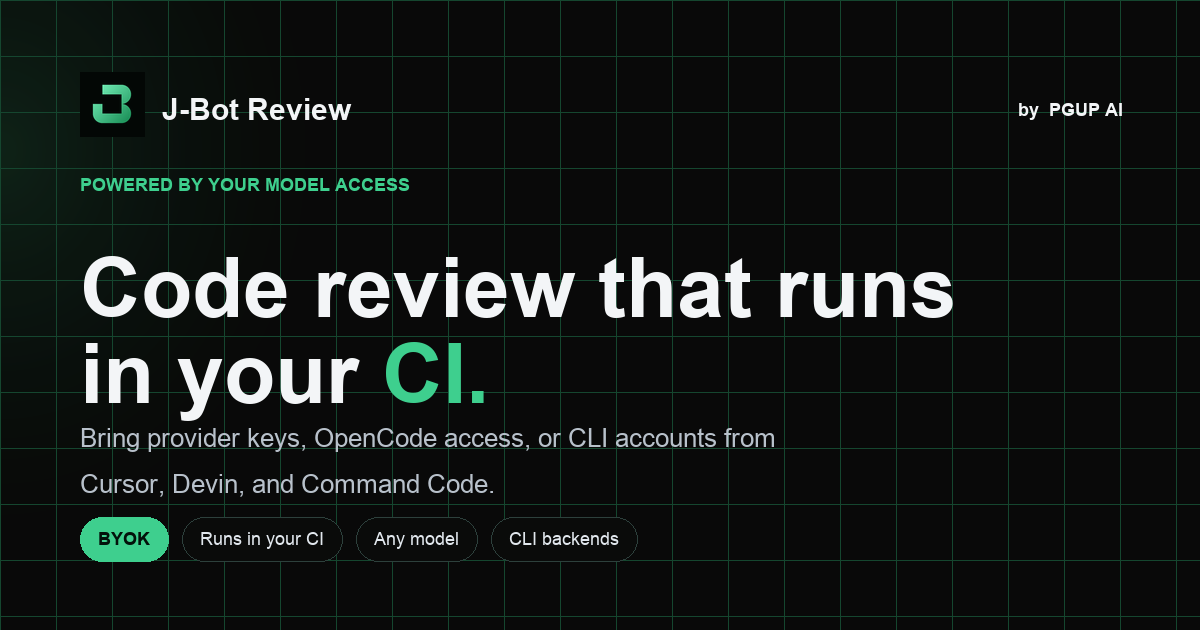
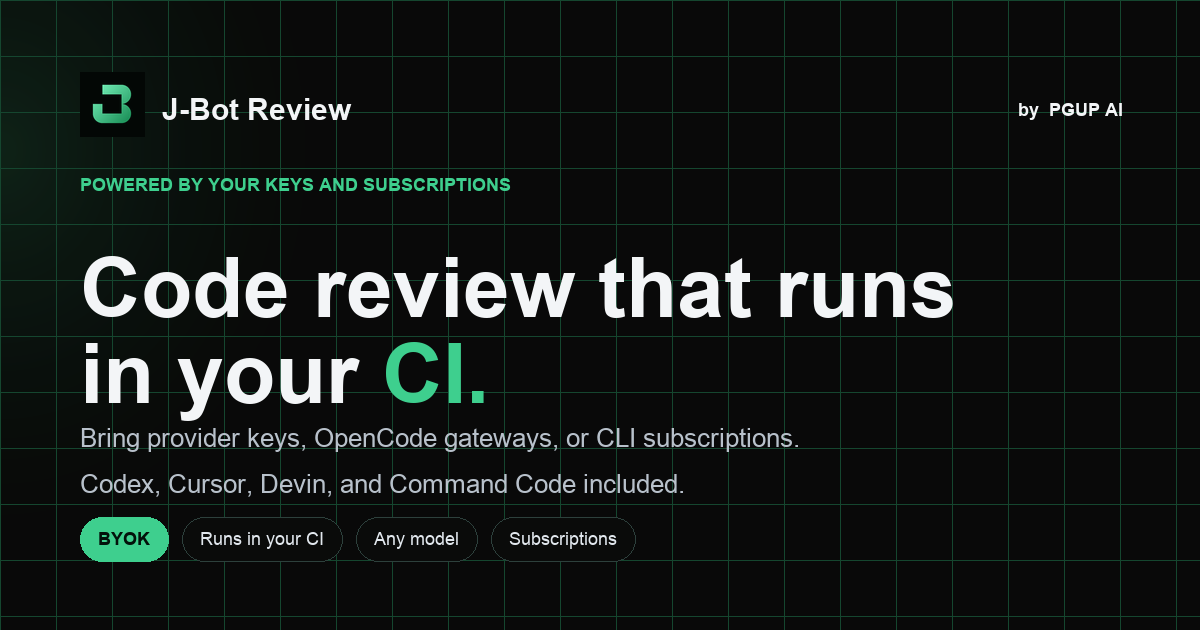
Clarify subscription positioning

diff --git a/index.html b/index.html
@@ -4,7 +4,7 @@
 <meta charset="utf-8" />
 <meta name="viewport" content="width=device-width, initial-scale=1" />
 <title>J-Bot Review: AI code review that runs in your CI</title>
-<meta name="description" content="An agentic PR reviewer that runs inside your own GitHub Actions, using provider keys, OpenCode gateways, or CLI access from Cursor, Devin, and Command Code." />
+<meta name="description" content="An agentic PR reviewer that runs inside your own GitHub Actions, using provider keys, OpenCode gateways, or CLI subscriptions including Codex, Cursor, Devin, and Command Code." />
 <meta name="color-scheme" content="dark" />
 <meta name="theme-color" content="#0a0b0a" />
 
@@ -20,7 +20,7 @@
 <meta property="og:url" content="https://www.pgupai.com/" />
 <meta property="og:site_name" content="J-Bot Review" />
 <meta property="og:title" content="J-Bot Review: AI code review that runs in your CI" />
-<meta property="og:description" content="Agentic PR review inside GitHub Actions. Bring provider keys, OpenCode access, or CLI accounts from Cursor, Devin, and Command Code." />
+<meta property="og:description" content="Agentic PR review inside GitHub Actions. Bring provider keys, OpenCode gateways, or CLI subscriptions including Codex, Cursor, Devin, and Command Code." />
 <meta property="og:image" content="https://www.pgupai.com/assets/og.png" />
 <meta property="og:image:width" content="1200" />
 <meta property="og:image:height" content="630" />
@@ -28,7 +28,7 @@
 <!-- Twitter -->
 <meta name="twitter:card" content="summary_large_image" />
 <meta name="twitter:title" content="J-Bot Review: AI code review that runs in your CI" />
-<meta name="twitter:description" content="Agentic PR review inside GitHub Actions. Bring provider keys, OpenCode access, or CLI accounts from Cursor, Devin, and Command Code." />
+<meta name="twitter:description" content="Agentic PR review inside GitHub Actions. Bring provider keys, OpenCode gateways, or CLI subscriptions including Codex, Cursor, Devin, and Command Code." />
 <meta name="twitter:image" content="https://www.pgupai.com/assets/og.png" />
 
 <style>
@@ -506,9 +506,9 @@
 <section class="hero">
   <div class="wrap hero-grid">
     <div class="hero-copy">
-      <span class="brand-strip">Use your <b>own model access</b></span>
+      <span class="brand-strip">Reuse your <b>existing model subscriptions</b></span>
       <h1>Code review that runs in your <span class="grad">CI</span>.</h1>
-      <p class="lede">An agentic PR reviewer that runs in your own GitHub Actions. Use OpenCode, provider keys, or existing Cursor, Devin, and Command Code access.</p>
+      <p class="lede">An agentic PR reviewer that runs in your own GitHub Actions. Use provider keys, OpenCode gateways, or existing Codex, Cursor, Devin, and Command Code subscriptions.</p>
       <div class="hero-cta">
         <a class="btn btn-primary" href="#setup">
           <svg viewBox="0 0 24 24" fill="none" stroke="currentColor" stroke-width="2" stroke-linecap="round" stroke-linejoin="round" aria-hidden="true"><path d="M5 12h14M12 5l7 7-7 7"/></svg>
@@ -544,7 +544,7 @@
         <span class="k">with</span>:
           <span class="k">opencode-api-key</span>: <span class="s">${{ secrets.OPENCODE_API_KEY }}</span>
           <span class="k">github-token</span>: <span class="s">${{ secrets.GITHUB_TOKEN }}</span>
-<span class="c"># your runner. your model access. your review.</span></pre>
+<span class="c"># your runner. your provider key or subscription. your review.</span></pre>
       </div>
     </div>
   </div>
@@ -553,11 +553,12 @@
 <!-- ====================== PROVIDER / MODEL STRIP ====================== -->
 <section class="providers" aria-label="Supported providers">
   <div class="wrap">
-    <p class="label">Bring provider keys, OpenCode access, or CLI subscriptions</p>
+    <p class="label">Bring provider keys, OpenCode gateways, or CLI subscriptions</p>
     <div class="chips">
-      <span class="chip free"><svg class="chip-ic" viewBox="0.7 1.16 22.6 21.65" aria-hidden="true"><path d="M22 24H2V0h20zM17 4.8H7v14.4h10z"/></svg>OpenCode<i class="ftag">default path</i></span>
+      <span class="chip free"><svg class="chip-ic" viewBox="0.7 1.16 22.6 21.65" aria-hidden="true"><path d="M22 24H2V0h20zM17 4.8H7v14.4h10z"/></svg>OpenCode<i class="ftag">free models</i></span>
       <span class="chip"><svg class="chip-ic" viewBox="-1.06 2.9 26.12 17.78" aria-hidden="true"><path d="m4.7144 15.9555 4.7174-2.6471.079-.2307-.079-.1275h-.2307l-.7893-.0486-2.6956-.0729-2.3375-.0971-2.2646-.1214-.5707-.1215-.5343-.7042.0546-.3522.4797-.3218.686.0608 1.5179.1032 2.2767.1578 1.6514.0972 2.4468.255h.3886l.0546-.1579-.1336-.0971-.1032-.0972L6.973 9.8356l-2.55-1.6879-1.3356-.9714-.7225-.4918-.3643-.4614-.1578-1.0078.6557-.7225.8803.0607.2246.0607.8925.686 1.9064 1.4754 2.4893 1.8336.3643.3035.1457-.1032.0182-.0728-.164-.2733-1.3539-2.4467-1.445-2.4893-.6435-1.032-.17-.6194c-.0607-.255-.1032-.4674-.1032-.7285L6.287.1335 6.6997 0l.9957.1336.419.3642.6192 1.4147 1.0018 2.2282 1.5543 3.0296.4553.8985.2429.8318.091.255h.1579v-.1457l.1275-1.706.2368-2.0947.2307-2.6957.0789-.7589.3764-.9107.7468-.4918.5828.2793.4797.686-.0668.4433-.2853 1.8517-.5586 2.9021-.3643 1.9429h.2125l.2429-.2429.9835-1.3053 1.6514-2.0643.7286-.8196.85-.9046.5464-.4311h1.0321l.759 1.1293-.34 1.1657-1.0625 1.3478-.8804 1.1414-1.2628 1.7-.7893 1.36.0729.1093.1882-.0183 2.8535-.607 1.5421-.2794 1.8396-.3157.8318.3886.091.3946-.3278.8075-1.967.4857-2.3072.4614-3.4364.8136-.0425.0304.0486.0607 1.5482.1457.6618.0364h1.621l3.0175.2247.7892.522.4736.6376-.079.4857-1.2142.6193-1.6393-.3886-3.825-.9107-1.3113-.3279h-.1822v.1093l1.0929 1.0686 2.0035 1.8092 2.5075 2.3314.1275.5768-.3218.4554-.34-.0486-2.2039-1.6575-.85-.7468-1.9246-1.621h-.1275v.17l.4432.6496 2.3436 3.5214.1214 1.0807-.17.3521-.6071.2125-.6679-.1214-1.3721-1.9246L14.38 17.959l-1.1414-1.9428-.1397.079-.674 7.2552-.3156.3703-.7286.2793-.6071-.4614-.3218-.7468.3218-1.4753.3886-1.9246.3157-1.53.2853-1.9004.17-.6314-.0121-.0425-.1397.0182-1.4328 1.9672-2.1796 2.9446-1.7243 1.8456-.4128.164-.7164-.3704.0667-.6618.4008-.5889 2.386-3.0357 1.4389-1.882.929-1.0868-.0062-.1579h-.0546l-6.3385 4.1164-1.1293.1457-.4857-.4554.0608-.7467.2307-.2429 1.9064-1.3114Z"/></svg>Claude</span>
       <span class="chip"><svg class="chip-ic" viewBox="-0.98 2.41 25.97 19.14" aria-hidden="true"><path d="M22.2819 9.8211a5.9847 5.9847 0 0 0-.5157-4.9108 6.0462 6.0462 0 0 0-6.5098-2.9A6.0651 6.0651 0 0 0 4.9807 4.1818a5.9847 5.9847 0 0 0-3.9977 2.9 6.0462 6.0462 0 0 0 .7427 7.0966 5.98 5.98 0 0 0 .511 4.9107 6.051 6.051 0 0 0 6.5146 2.9001A5.9847 5.9847 0 0 0 13.2599 24a6.0557 6.0557 0 0 0 5.7718-4.2058 5.9894 5.9894 0 0 0 3.9977-2.9001 6.0557 6.0557 0 0 0-.7475-7.0729zm-9.022 12.6081a4.4755 4.4755 0 0 1-2.8764-1.0408l.1419-.0804 4.7783-2.7582a.7948.7948 0 0 0 .3927-.6813v-6.7369l2.02 1.1686a.071.071 0 0 1 .038.052v5.5826a4.504 4.504 0 0 1-4.4945 4.4944zm-9.6607-4.1254a4.4708 4.4708 0 0 1-.5346-3.0137l.142.0852 4.783 2.7582a.7712.7712 0 0 0 .7806 0l5.8428-3.3685v2.3324a.0804.0804 0 0 1-.0332.0615L9.74 19.9502a4.4992 4.4992 0 0 1-6.1408-1.6464zM2.3408 7.8956a4.485 4.485 0 0 1 2.3655-1.9728V11.6a.7664.7664 0 0 0 .3879.6765l5.8144 3.3543-2.0201 1.1685a.0757.0757 0 0 1-.071 0l-4.8303-2.7865A4.504 4.504 0 0 1 2.3408 7.872zm16.5963 3.8558L13.1038 8.364 15.1192 7.2a.0757.0757 0 0 1 .071 0l4.8303 2.7913a4.4944 4.4944 0 0 1-.6765 8.1042v-5.6772a.79.79 0 0 0-.407-.667zm2.0107-3.0231l-.142-.0852-4.7735-2.7818a.7759.7759 0 0 0-.7854 0L9.409 9.2297V6.8974a.0662.0662 0 0 1 .0284-.0615l4.8303-2.7866a4.4992 4.4992 0 0 1 6.6802 4.66zM8.3065 12.863l-2.02-1.1638a.0804.0804 0 0 1-.038-.0567V6.0742a4.4992 4.4992 0 0 1 7.3757-3.4537l-.142.0805L8.704 5.459a.7948.7948 0 0 0-.3927.6813zm1.0976-2.3654l2.602-1.4998 2.6069 1.4998v2.9994l-2.5974 1.4997-2.6067-1.4997Z"/></svg>OpenAI</span>
+      <span class="chip"><svg class="chip-ic" viewBox="-0.98 2.41 25.97 19.14" aria-hidden="true"><path d="M22.2819 9.8211a5.9847 5.9847 0 0 0-.5157-4.9108 6.0462 6.0462 0 0 0-6.5098-2.9A6.0651 6.0651 0 0 0 4.9807 4.1818a5.9847 5.9847 0 0 0-3.9977 2.9 6.0462 6.0462 0 0 0 .7427 7.0966 5.98 5.98 0 0 0 .511 4.9107 6.051 6.051 0 0 0 6.5146 2.9001A5.9847 5.9847 0 0 0 13.2599 24a6.0557 6.0557 0 0 0 5.7718-4.2058 5.9894 5.9894 0 0 0 3.9977-2.9001 6.0557 6.0557 0 0 0-.7475-7.0729zm-9.022 12.6081a4.4755 4.4755 0 0 1-2.8764-1.0408l.1419-.0804 4.7783-2.7582a.7948.7948 0 0 0 .3927-.6813v-6.7369l2.02 1.1686a.071.071 0 0 1 .038.052v5.5826a4.504 4.504 0 0 1-4.4945 4.4944zm-9.6607-4.1254a4.4708 4.4708 0 0 1-.5346-3.0137l.142.0852 4.783 2.7582a.7712.7712 0 0 0 .7806 0l5.8428-3.3685v2.3324a.0804.0804 0 0 1-.0332.0615L9.74 19.9502a4.4992 4.4992 0 0 1-6.1408-1.6464zM2.3408 7.8956a4.485 4.485 0 0 1 2.3655-1.9728V11.6a.7664.7664 0 0 0 .3879.6765l5.8144 3.3543-2.0201 1.1685a.0757.0757 0 0 1-.071 0l-4.8303-2.7865A4.504 4.504 0 0 1 2.3408 7.872zm16.5963 3.8558L13.1038 8.364 15.1192 7.2a.0757.0757 0 0 1 .071 0l4.8303 2.7913a4.4944 4.4944 0 0 1-.6765 8.1042v-5.6772a.79.79 0 0 0-.407-.667zm2.0107-3.0231l-.142-.0852-4.7735-2.7818a.7759.7759 0 0 0-.7854 0L9.409 9.2297V6.8974a.0662.0662 0 0 1 .0284-.0615l4.8303-2.7866a4.4992 4.4992 0 0 1 6.6802 4.66zM8.3065 12.863l-2.02-1.1638a.0804.0804 0 0 1-.038-.0567V6.0742a4.4992 4.4992 0 0 1 7.3757-3.4537l-.142.0805L8.704 5.459a.7948.7948 0 0 0-.3927.6813zm1.0976-2.3654l2.602-1.4998 2.6069 1.4998v2.9994l-2.5974 1.4997-2.6067-1.4997Z"/></svg>Codex</span>
       <span class="chip"><svg class="chip-ic" viewBox="-1.07 3.09 26.13 17.78" aria-hidden="true"><path d="M11.04 19.32Q12 21.51 12 24q0-2.49.93-4.68.96-2.19 2.58-3.81t3.81-2.55Q21.51 12 24 12q-2.49 0-4.68-.93a12.3 12.3 0 0 1-3.81-2.58 12.3 12.3 0 0 1-2.58-3.81Q12 2.49 12 0q0 2.49-.96 4.68-.93 2.19-2.55 3.81a12.3 12.3 0 0 1-3.81 2.58Q2.49 12 0 12q2.49 0 4.68.96 2.19.93 3.81 2.55t2.55 3.81"/></svg>Gemini</span>
       <span class="chip"><svg class="chip-ic" viewBox="-0.81 4.94 25.63 13.55" aria-hidden="true"><path d="M23.748 4.651c-.254-.124-.364.113-.512.233-.051.04-.094.09-.137.137-.372.397-.806.657-1.373.626-.829-.046-1.537.214-2.163.848-.133-.782-.575-1.248-1.247-1.548-.352-.155-.708-.311-.955-.65-.172-.24-.219-.509-.305-.774-.055-.16-.11-.323-.293-.35-.2-.031-.278.136-.356.276-.313.572-.434 1.202-.422 1.84.027 1.436.633 2.58 1.838 3.393.137.094.172.187.129.323-.082.28-.18.553-.266.833-.055.179-.137.218-.328.14a5.5 5.5 0 0 1-1.737-1.179c-.857-.828-1.631-1.743-2.597-2.46a12 12 0 0 0-.689-.47c-.985-.957.13-1.743.387-1.836.27-.098.094-.433-.778-.428-.872.003-1.67.295-2.687.685a3 3 0 0 1-.465.136 9.6 9.6 0 0 0-2.883-.101c-1.885.21-3.39 1.1-4.497 2.622C.082 8.776-.231 10.854.152 13.02c.403 2.284 1.568 4.175 3.36 5.653 1.857 1.533 3.997 2.284 6.438 2.14 1.482-.085 3.132-.284 4.994-1.86.47.234.962.328 1.78.398.629.058 1.235-.031 1.705-.129.735-.155.684-.836.418-.961-2.155-1.004-1.682-.595-2.112-.926 1.095-1.295 2.768-3.598 3.284-6.733.05-.346.115-.834.108-1.114-.004-.171.035-.238.23-.257a4.2 4.2 0 0 0 1.545-.475c1.397-.763 1.96-2.016 2.093-3.517.02-.23-.004-.467-.247-.588M11.58 18.168c-2.088-1.642-3.101-2.183-3.52-2.16-.39.024-.32.472-.234.763.09.288.207.487.371.74.114.167.192.416-.113.603-.673.416-1.842-.14-1.897-.168-1.361-.801-2.5-1.86-3.301-3.306-.775-1.393-1.225-2.888-1.299-4.482-.02-.385.094-.522.477-.592a4.7 4.7 0 0 1 1.53-.038c2.131.311 3.946 1.264 5.467 2.774.868.86 1.525 1.887 2.202 2.89.72 1.066 1.494 2.082 2.48 2.915.348.291.626.513.892.677-.802.09-2.14.109-3.055-.615zm1.001-6.44a.306.306 0 0 1 .415-.287.3.3 0 0 1 .113.074.3.3 0 0 1 .086.214c0 .17-.136.307-.308.307a.303.303 0 0 1-.306-.307m3.11 1.596c-.2.081-.4.151-.591.16a1.25 1.25 0 0 1-.798-.254c-.274-.23-.47-.358-.551-.758a1.7 1.7 0 0 1 .015-.588c.07-.327-.007-.537-.238-.727-.188-.156-.426-.199-.689-.199a.6.6 0 0 1-.254-.078.253.253 0 0 1-.114-.358 1 1 0 0 1 .192-.21c.356-.202.767-.136 1.146.016.352.144.618.408 1.001.782.392.451.462.576.685.915.176.264.336.536.446.848.066.194-.02.353-.25.45"/></svg>DeepSeek</span>
       <span class="chip"><svg class="chip-ic" viewBox="-1.06 3.12 26.13 17.74" aria-hidden="true"><path d="M23.919 14.545 20.817 9.17l1.47-2.544a.56.56 0 0 0 0-.566l-1.633-2.83a.57.57 0 0 0-.49-.283h-6.207L12.487.402a.57.57 0 0 0-.49-.284H8.732a.56.56 0 0 0-.49.284L5.139 5.775h-2.94a.56.56 0 0 0-.49.284L.077 8.887a.56.56 0 0 0 0 .567L3.18 14.83l-1.47 2.545a.56.56 0 0 0 0 .566l1.634 2.83a.57.57 0 0 0 .49.283h6.205l1.47 2.545a.57.57 0 0 0 .49.284h3.266a.57.57 0 0 0 .49-.284l3.104-5.375h2.94a.57.57 0 0 0 .49-.283l1.634-2.828a.55.55 0 0 0-.004-.568M8.733.686l1.634 2.828-1.634 2.828H21.8L20.164 9.17H7.425L5.63 6.06Zm1.306 19.801-6.205-.002 1.634-2.83h3.265L2.201 6.344h3.267q3.182 5.517 6.367 11.032zm10.124-5.66L18.53 12l-6.532 11.315-1.634-2.83c2.129-3.673 4.25-7.351 6.373-11.028h3.592l3.102 5.374z"/></svg>Qwen</span>
@@ -591,7 +592,7 @@
       <div class="step reveal">
         <div class="num">01</div>
         <h3>Add the workflow</h3>
-        <p>Commit one YAML file to <code>.github/workflows</code> and add a provider key or CLI access token as a repo secret.</p>
+        <p>Commit one YAML file to <code>.github/workflows</code> and add a provider key or CLI credential as a repo secret.</p>
         <div class="mini"><span class="k">secrets</span>:<br>&nbsp;&nbsp;<span class="s">OPENCODE_API_KEY</span></div>
       </div>
       <div class="step reveal">
@@ -622,15 +623,15 @@
       <!-- BYOK -->
       <div class="cell c-byok reveal">
         <div class="ic" aria-hidden="true"><svg viewBox="0 0 24 24" fill="none" stroke="currentColor" stroke-width="2" stroke-linecap="round" stroke-linejoin="round"><path d="M21 2l-2 2m-7.61 7.61a5.5 5.5 0 1 1-7.78 7.78 5.5 5.5 0 0 1 7.78-7.78zm0 0L15.5 7.5m0 0l3 3L22 7l-3-3"/></svg></div>
-        <h3>Your access, your runner</h3>
-        <p>You bring the provider key or CLI token as a repo secret. The review runs in your Actions runner, and the diff goes only to the model you chose, on your own account.</p>
+        <h3>Your key or subscription, your runner</h3>
+        <p>You bring the provider key or CLI credential as a repo secret. The review runs in your Actions runner, and the diff goes only to the model you chose, on your own account.</p>
       </div>
 
       <!-- FREE -->
       <div class="cell c-free reveal">
         <div>
           <h3>Reviews that can cost nothing</h3>
-          <p>Pick a free model where your provider offers one, bring a provider key, or run through existing Cursor, Devin, or Command Code access. J-Bot adds no per-review bill.</p>
+          <p>Pick a free model where your provider offers one, bring a provider key, or reuse an existing Codex, Cursor, Devin, or Command Code subscription. J-Bot adds no per-review bill.</p>
         </div>
         <div class="freebig">$0<small>with free models or existing CLI seats</small></div>
       </div>
@@ -646,7 +647,7 @@
       <div class="cell c-flex reveal">
         <div class="ic" aria-hidden="true"><svg viewBox="0 0 24 24" fill="none" stroke="currentColor" stroke-width="2" stroke-linecap="round" stroke-linejoin="round"><path d="M12 3v18M3 12h18M5.6 5.6l12.8 12.8M18.4 5.6L5.6 18.4"/></svg></div>
         <h3>Any model you want</h3>
-        <p>Provider keys, OpenCode gateways, and CLI backends including Cursor, Devin, and Command Code. Switch with one repo variable, no YAML edits.</p>
+        <p>Provider keys, OpenCode gateways, and CLI backends including Codex, Cursor, Devin, and Command Code. Switch with one repo variable, no YAML edits.</p>
       </div>
 
       <!-- GUIDELINES -->
@@ -704,7 +705,7 @@
       <div class="col ours reveal">
         <div class="col-head"><h3>J-Bot Review</h3><span class="tag">owned</span></div>
         <ul>
-          <li><svg class="m" viewBox="0 0 24 24" fill="none" stroke="currentColor" stroke-width="2.4" stroke-linecap="round" stroke-linejoin="round"><path d="M20 6 9 17l-5-5"/></svg>Runs in your runner. The diff goes only to the model you pick, on your access.</li>
+          <li><svg class="m" viewBox="0 0 24 24" fill="none" stroke="currentColor" stroke-width="2.4" stroke-linecap="round" stroke-linejoin="round"><path d="M20 6 9 17l-5-5"/></svg>Runs in your runner. The diff goes only to the model you pick, on your provider key or subscription.</li>
           <li><svg class="m" viewBox="0 0 24 24" fill="none" stroke="currentColor" stroke-width="2.4" stroke-linecap="round" stroke-linejoin="round"><path d="M20 6 9 17l-5-5"/></svg>Can be free when your selected provider offers free models, or reuse a CLI subscription you already pay for.</li>
           <li><svg class="m" viewBox="0 0 24 24" fill="none" stroke="currentColor" stroke-width="2.4" stroke-linecap="round" stroke-linejoin="round"><path d="M20 6 9 17l-5-5"/></svg>Any provider, model, or supported CLI. Swap with one repo variable.</li>
           <li><svg class="m" viewBox="0 0 24 24" fill="none" stroke="currentColor" stroke-width="2.4" stroke-linecap="round" stroke-linejoin="round"><path d="M20 6 9 17l-5-5"/></svg>Open action you can pin, audit, and self-host anywhere.</li>
@@ -779,7 +780,7 @@
   <div class="wrap">
     <div class="cta-final reveal">
       <h2>Put it on your next pull request.</h2>
-      <p>One YAML file, one secret, and an agentic reviewer is reading every PR. On your runner, on your model access, with $0 added by J-Bot.</p>
+      <p>One YAML file, one secret, and an agentic reviewer is reading every PR. On your runner, on your provider key or subscription, with $0 added by J-Bot.</p>
       <div class="hero-cta">
         <a class="btn btn-primary" href="https://github.com/pgup-ai/jbot-review-action" target="_blank" rel="noopener noreferrer">
           <svg viewBox="0 0 24 24" fill="none" stroke="currentColor" stroke-width="2" stroke-linecap="round" stroke-linejoin="round" aria-hidden="true"><path d="M5 12h14M12 5l7 7-7 7"/></svg>
@@ -809,7 +810,7 @@
           </span>
           <span class="wm"><b>J-Bot</b> Review</span>
         </a>
-        <p>An agentic PR reviewer for your own runner, your model access, and your choice of backend.</p>
+        <p>An agentic PR reviewer for your own runner, provider keys or CLI subscriptions, and your choice of backend.</p>
         <p class="by">A <strong>PGUP AI</strong> project.</p>
       </div>
 